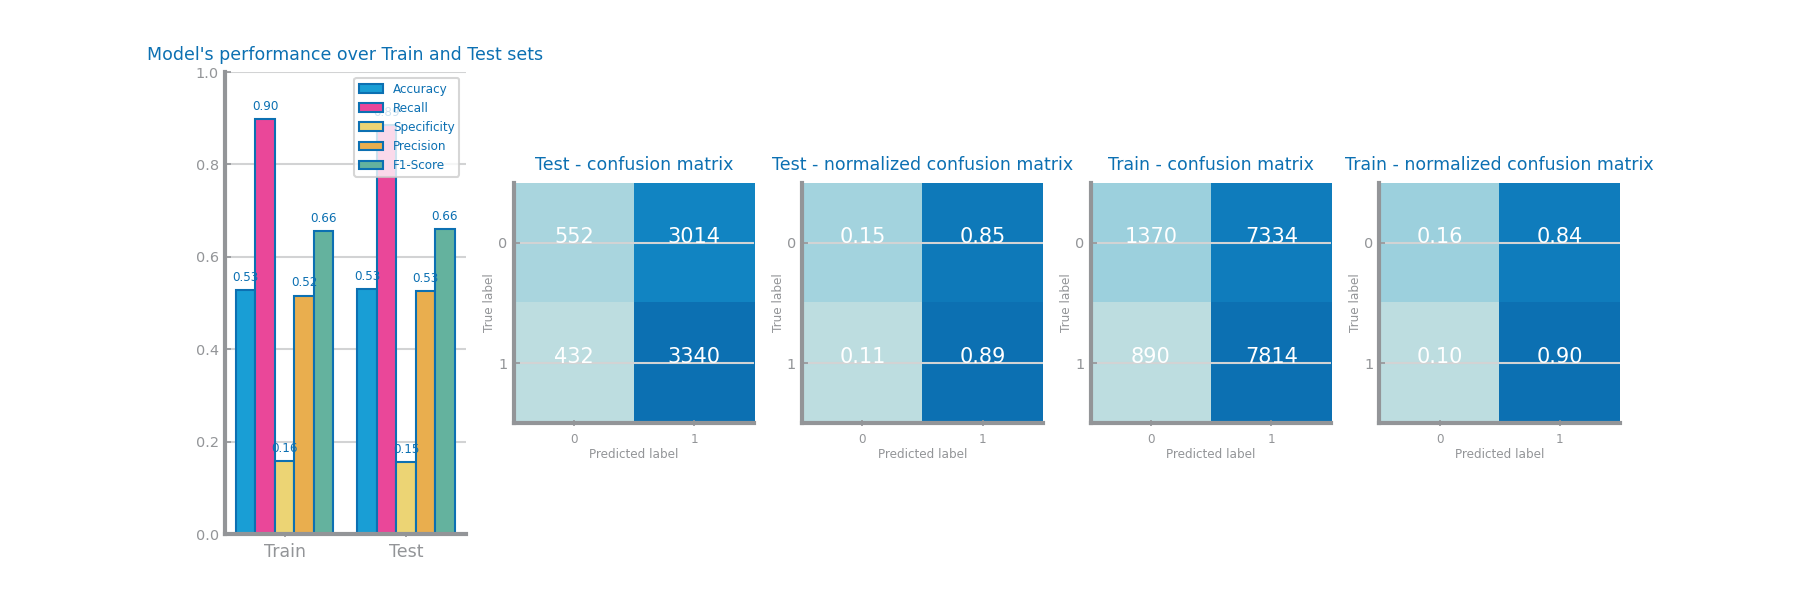
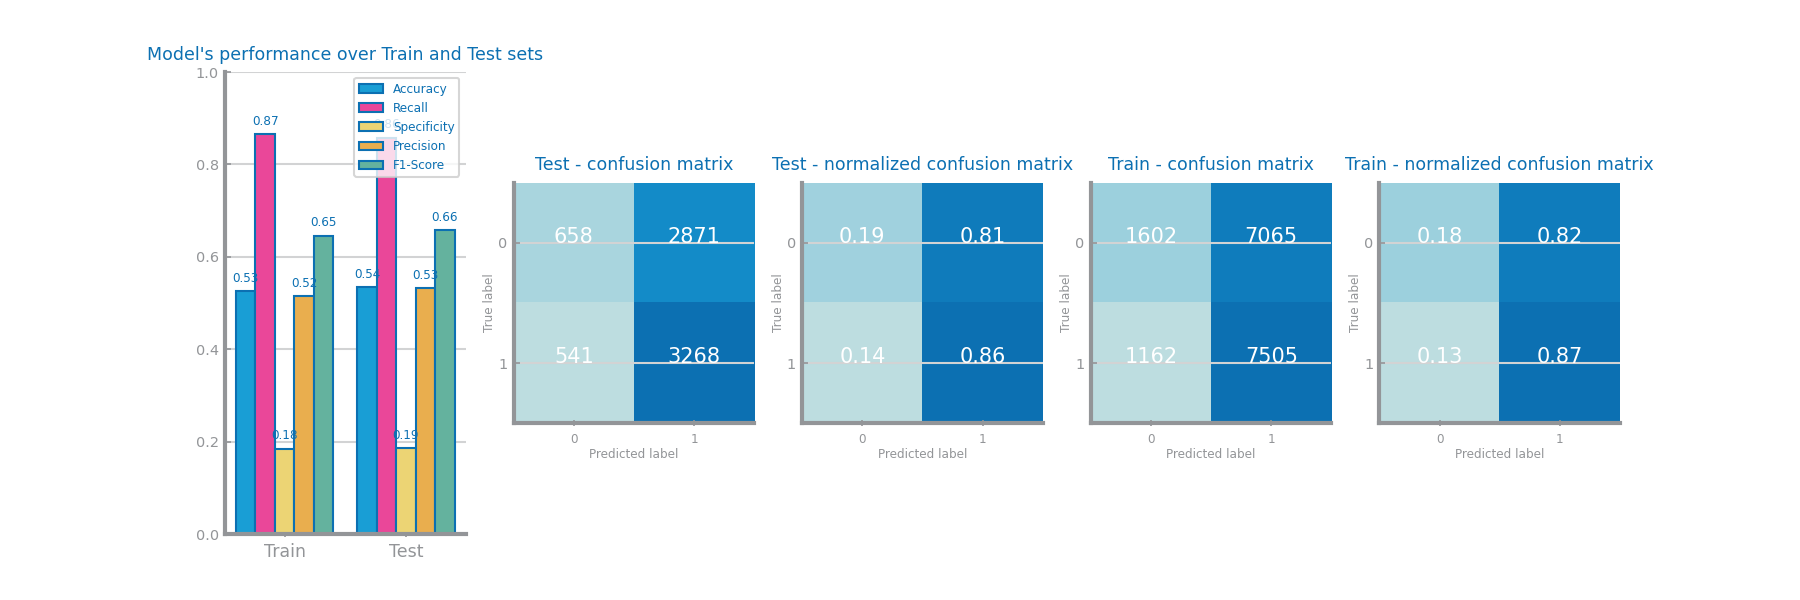
feat: Feature Selection

diff --git a/health/src/main.py b/health/src/main.py
@@ -12,6 +12,8 @@ from preparation.mvi_inputation import MVImputation
 from preparation.outliers_imputation import OutliersImputation
 from preparation.scaling import Scaling
 from preparation.balancing import Balancing
+from preparation.feature_selection import FeatureSelection
+
 from evaluation.nb_classifier import NBClassifier
 from evaluation.knn_classifier import Knn_classifier
 from evaluation.decision_tree_classifier import DTClassifier
@@ -25,6 +27,7 @@ INPUTATION_PATH = RECORDS_PATH + '/inputation'
 
 INPUT_FILE_PATH = 'health/resources/data/diabetic_data.csv'
 PREPARATION_OUT_FILE_PATH = 'health/resources/data/data_prepared.csv'
+FEATURE_SELECTION_OUT_FILE_PATH_TRAIN = 'health/resources/data/data_feature_selected.csv'
 PREPARATION_OUT_FILE_PATH_TRAIN = 'health/resources/data/data_prepared_train.csv'
 PREPARATION_OUT_FILE_PATH_TEST = 'health/resources/data/data_prepared_test.csv'
 MVI_OUT_FILE_PATH = 'health/resources/data/data_mvi_approach2.csv'
@@ -61,45 +64,51 @@ if __name__ == "__main__":
 
   # ----------------------------- 2º Phase -> Data preparation -------  ---------------------- #
 
-  # data = read_csv(INPUT_FILE_PATH, na_values='na')
+  data = read_csv(INPUT_FILE_PATH, na_values='na')
  
-  # parser = Parser(data, MISSING_VALUES_REPR)
-  # data = parser.parse_dataset(PREPARATION_OUT_FILE_PATH)
+  parser = Parser(data, MISSING_VALUES_REPR)
+  data = parser.parse_dataset(PREPARATION_OUT_FILE_PATH)
  
-  # mvi = MVImputation(data, MISSING_VALUES_REPR)
-  # data = mvi.compute_mv_imputation(INPUTATION_OUT_FILE_PATH)
+  mvi = MVImputation(data, MISSING_VALUES_REPR)
+  data = mvi.compute_mv_imputation(INPUTATION_OUT_FILE_PATH)
 
-  # outliers = OutliersImputation(data)
-  # data = outliers.compute_outliers()
+  outliers = OutliersImputation(data)
+  data = outliers.compute_outliers()
   
-  # scaling = Scaling(data)
-  # data = scaling.compute_scale()
+  scaling = Scaling(data)
+  data = scaling.compute_scale()
+
+  # Feature Selection
+  feature_Selection = FeatureSelection(data)
+  vars_2drop = feature_Selection.explore_redundat()
+  data = feature_Selection.drop_redundant(vars_2drop)
+  data.to_csv(FEATURE_SELECTION_OUT_FILE_PATH_TRAIN)
   
-  # # Removes single value columns
-  # ms = [
-  #   'acetohexamide', 'examide', 'citoglipton', 
-  # ]
-  # data = data.drop(columns=ms)
+  # Removes single value columns
+  ms = [
+    'acetohexamide', 'examide', 'citoglipton', 
+  ]
+  data = data.drop(columns=ms)
 
-  # # Splits data before evaluation
-  # X = data.drop("readmitted", axis=1)
-  # y = data["readmitted"]
-  # X_train, X_test, y_train, y_test = train_test_split(X, y, train_size=0.7)
+  # Splits data before evaluation
+  X = data.drop("readmitted", axis=1)
+  y = data["readmitted"]
+  X_train, X_test, y_train, y_test = train_test_split(X, y, train_size=0.7)
 
-  # data_train = concat([DataFrame(X_train), DataFrame(y_train)], axis=1)
+  data_train = concat([DataFrame(X_train), DataFrame(y_train)], axis=1)
 
-  # balancing = Balancing(data_train)
-  # data = balancing.compute_balancing()
+  balancing = Balancing(data_train)
+  data = balancing.compute_balancing()
 
-  # data.to_csv(PREPARATION_OUT_FILE_PATH_TRAIN)
+  data.to_csv(PREPARATION_OUT_FILE_PATH_TRAIN)
   
-  # data_test = concat([DataFrame(X_test), DataFrame(y_test)], axis=1)
-  # data_test.to_csv(PREPARATION_OUT_FILE_PATH_TEST)
+  data_test = concat([DataFrame(X_test), DataFrame(y_test)], axis=1)
+  data_test.to_csv(PREPARATION_OUT_FILE_PATH_TEST)
 
   # ----------------------------- 3º Phase -> Evaluation -------  ---------------------- #
 
-  data_train = read_csv(PREPARATION_OUT_FILE_PATH_TRAIN, na_values='na')
-  data_test = read_csv(PREPARATION_OUT_FILE_PATH_TEST, na_values='na')
+  # data_train = read_csv(PREPARATION_OUT_FILE_PATH_TRAIN, na_values='na')
+  # data_test = read_csv(PREPARATION_OUT_FILE_PATH_TEST, na_values='na')
 
   # nbClassifier = NBClassifier(data_train, data_test)
   # nbClassifier.explore_best_nb_value()
@@ -109,9 +118,9 @@ if __name__ == "__main__":
   # k, approach = knn_class.explore_best_k_value(method="large")
   # knn_class.compute_knn_best_results(k , approach)
 
-  dt_classifier = DTClassifier(data_train, data_test)
-  criteria, depth, impurity = dt_classifier.compute_best_dt()
-  dt_classifier.explore_best_tree_graph_light()
-  dt_classifier.compute_dt_best_matrix_results(depth, criteria, impurity)
-  dt_classifier.compute_dt_feature_importance()
-  dt_classifier.compute_best_dt_overfit(criteria, impurity)
+  # dt_classifier = DTClassifier(data_train, data_test)
+  # criteria, depth, impurity = dt_classifier.compute_best_dt()
+  # dt_classifier.explore_best_tree_graph_light()
+  # dt_classifier.compute_dt_best_matrix_results(depth, criteria, impurity)
+  # dt_classifier.compute_dt_feature_importance()
+  # dt_classifier.compute_best_dt_overfit(criteria, impurity)

diff --git a/climate/src/preparation/feature_selection.py b/climate/src/preparation/feature_selection.py
@@ -1,0 +1,77 @@
+import pandas as pd
+from matplotlib.pyplot import figure, title, savefig, show
+from seaborn import heatmap
+from matplotlib.pyplot import figure, savefig, show
+from ds_charts import bar_chart
+
+
+class FeatureSelection:
+
+    def __init__(self,data: pd.DataFrame) -> None:
+        self.data = data
+        self.threshold = 0.9
+    
+    def explore_redundat(self): 
+        drop, corr_mtx = self.select_redundant(self.data.corr())
+        # print(drop.keys())
+
+        if corr_mtx.empty:
+            raise ValueError('Matrix is empty.')
+
+        figure(figsize=[10, 10])
+        heatmap(corr_mtx, xticklabels=corr_mtx.columns, yticklabels=corr_mtx.columns, annot=False, cmap='Blues')
+        title('Filtered Correlation Analysis')
+        savefig(f'climate/records/preparation/filtered_correlation_analysis_{self.threshold}.png')
+
+        return drop
+
+    def select_redundant(self, corr_mtx) -> tuple[dict, pd.DataFrame]:
+        if corr_mtx.empty:
+            return {}
+
+        corr_mtx = abs(corr_mtx)
+        vars_2drop = {}
+        for el in corr_mtx.columns:
+            el_corr = (corr_mtx[el]).loc[corr_mtx[el] >= self.threshold]
+            if len(el_corr) == 1:
+                corr_mtx.drop(labels=el, axis=1, inplace=True)
+                corr_mtx.drop(labels=el, axis=0, inplace=True)
+            else:
+                vars_2drop[el] = el_corr.index
+        return vars_2drop, corr_mtx
+
+    def drop_redundant(self, vars_2drop: dict) -> pd.DataFrame:
+        sel_2drop = []
+        # print(vars_2drop.keys())
+        for key in vars_2drop.keys():
+            if key not in sel_2drop:
+                for r in vars_2drop[key]:
+                    if r != key and r not in sel_2drop:
+                        sel_2drop.append(r)
+        print('Variables to drop', sel_2drop)
+        df = self.data.copy()
+        for var in sel_2drop:
+            df.drop(labels=var, axis=1, inplace=True)
+        return df
+
+    
+    def select_low_variance(self, data: pd.DataFrame):
+        numeric_vars = ['fips', 'PRECTOT', 'PS', 'QV2M', 'T2M_MAX', 'T2M_RANGE', 'WS10M', 'WS10M_MIN', 'WS10M_RANGE', 'WS50M_MAX', 'WS50M_RANGE', 'lat', 'elevation', 'slope1', 'slope2', 'slope3', 'slope4', 'slope5', 'slope7', 'aspectN', 'aspectW', 'WAT_LAND', 'NVG_LAND', 'URB_LAND', 'GRS_LAND', 'CULTIR_LAND']
+
+        data_numeric = data[numeric_vars]
+
+        lst_variables = []
+        lst_variances = []
+        for el in data_numeric:
+            value = self.data[el].var()
+            if value <= self.threshold:
+                lst_variables.append(el)
+                lst_variances.append(value)
+
+        figure(figsize=[10, 10])
+        bar_chart(lst_variables, lst_variances, title='Variance analysis', xlabel='variables', ylabel='variance', rotation=45)
+        savefig('climate/records/preparation/filtered_variance_analysis.png')
+
+
+    
+    

diff --git a/health/src/preparation/feature_selection.py b/health/src/preparation/feature_selection.py
@@ -1,0 +1,77 @@
+import pandas as pd
+from matplotlib.pyplot import figure, title, savefig, show
+from seaborn import heatmap
+from matplotlib.pyplot import figure, savefig, show
+from ds_charts import bar_chart
+
+
+class FeatureSelection:
+
+    def __init__(self,data: pd.DataFrame) -> None:
+        self.data = data
+        self.threshold = 0.9
+    
+    def explore_redundat(self): 
+        drop, corr_mtx = self.select_redundant(self.data.corr())
+        # print(drop.keys())
+
+        if corr_mtx.empty:
+            raise ValueError('Matrix is empty.')
+
+        figure(figsize=[10, 10])
+        heatmap(corr_mtx, xticklabels=corr_mtx.columns, yticklabels=corr_mtx.columns, annot=False, cmap='Blues')
+        title('Filtered Correlation Analysis')
+        savefig(f'health/records/preparation/filtered_correlation_analysis_{self.threshold}.png')
+
+        return drop
+
+    def select_redundant(self, corr_mtx) -> tuple[dict, pd.DataFrame]:
+        if corr_mtx.empty:
+            return {}
+
+        corr_mtx = abs(corr_mtx)
+        vars_2drop = {}
+        for el in corr_mtx.columns:
+            el_corr = (corr_mtx[el]).loc[corr_mtx[el] >= self.threshold]
+            if len(el_corr) == 1:
+                corr_mtx.drop(labels=el, axis=1, inplace=True)
+                corr_mtx.drop(labels=el, axis=0, inplace=True)
+            else:
+                vars_2drop[el] = el_corr.index
+        return vars_2drop, corr_mtx
+
+    def drop_redundant(self, vars_2drop: dict) -> pd.DataFrame:
+        sel_2drop = []
+        print(vars_2drop.keys())
+        for key in vars_2drop.keys():
+            if key not in sel_2drop:
+                for r in vars_2drop[key]:
+                    if r != key and r not in sel_2drop:
+                        sel_2drop.append(r)
+        print('Variables to drop', sel_2drop)
+        df = self.data.copy()
+        for var in sel_2drop:
+            df.drop(labels=var, axis=1, inplace=True)
+        return df
+
+    
+    def select_low_variance(self, data: pd.DataFrame):
+        numeric_vars = ['time_in_hospital', 'num_lab_procedures', 'num_procedures', 'num_medications', 'number_outpatient', 'number_emergency', 'number_diagnoses', 'number_inpatient']
+
+        data_numeric = data[numeric_vars]
+
+        lst_variables = []
+        lst_variances = []
+        for el in data_numeric:
+            value = self.data[el].var()
+            if value <= self.threshold:
+                lst_variables.append(el)
+                lst_variances.append(value)
+
+        figure(figsize=[10, 10])
+        bar_chart(lst_variables, lst_variances, title='Variance analysis', xlabel='variables', ylabel='variance', rotation=True)
+        savefig('health/records/preparation/filtered_variance_analysis.png')
+
+
+    
+    

diff --git a/climate/src/main.py b/climate/src/main.py
@@ -10,6 +10,7 @@ from preparation.parsing import Parser
 from preparation.scaling import Scaling
 from preparation.outliers_imputation import OutliersImputation
 from preparation.balancing import Balancing
+from preparation.feature_selection import FeatureSelection
 
 from evaluation.knn_classifier import Knn_classifier
 from evaluation.nb_classifier import NBClassifier
@@ -20,6 +21,7 @@ register_matplotlib_converters()
 
 RECORDS_PATH = 'climate/records'
 PREPARATION_OUT_FILE_PATH = 'climate/resources/data/data_prepared.csv'
+FEATURE_SELECTION_OUT_FILE_PATH_TRAIN = 'climate/resources/data/data_feature_selected.csv'
 PREPARATION_OUT_FILE_PATH_TRAIN = 'climate/resources/data/data_prepared_train.csv'
 PREPARATION_OUT_FILE_PATH_TEST = 'climate/resources/data/data_prepared_test.csv'
 PROFILING_PATH = RECORDS_PATH + '/profiling'
@@ -42,6 +44,13 @@ if __name__ == "__main__":
   # scaling = Scaling(data)
   # data = scaling.compute_scale()
 
+  # # Feature Selection
+  # feature_Selection = FeatureSelection(data)
+  # vars_2drop = feature_Selection.explore_redundat()
+  # data = feature_Selection.drop_redundant(vars_2drop)
+  # data.to_csv(FEATURE_SELECTION_OUT_FILE_PATH_TRAIN)
+  # feature_Selection.select_low_variance(data)
+  
   # # Remove single values columns
   # ms = ['NVG_LAND', 'SQ5', 'SQ6']
   # data = data.drop(columns=ms)
@@ -65,9 +74,9 @@ if __name__ == "__main__":
   data_train = read_csv(PREPARATION_OUT_FILE_PATH_TRAIN, na_values='na')
   data_test = read_csv(PREPARATION_OUT_FILE_PATH_TEST, na_values='na')
 
-  # nbClassifier = NBClassifier(data_train, data_test)
+  nbClassifier = NBClassifier(data_train, data_test)
   # nbClassifier.explore_best_nb_value()
-  # nbClassifier.compute_nb_best_results()
+  nbClassifier.compute_nb_best_results()
 
   # knn_class = Knn_classifier(data_train, data_test)
   # k, approach = knn_class.explore_best_k_value(method="large")
@@ -77,9 +86,9 @@ if __name__ == "__main__":
   # rtClassifier.explore_best_rt()
   # rtClassifier.compute_best_rt_results(25, 0.7, 200)
 
-  dt_classifier = DTClassifier(data_train, data_test)
-  criteria, depth, impurity = dt_classifier.compute_best_dt()
-  dt_classifier.explore_best_tree_graph_light()
-  dt_classifier.compute_dt_best_matrix_results(depth, criteria, impurity)
-  dt_classifier.compute_dt_feature_importance()
-  dt_classifier.compute_best_dt_overfit(criteria, impurity)
+  # dt_classifier = DTClassifier(data_train, data_test)
+  # criteria, depth, impurity = dt_classifier.compute_best_dt()
+  # dt_classifier.explore_best_tree_graph_light()
+  # dt_classifier.compute_dt_best_matrix_results(depth, criteria, impurity)
+  # dt_classifier.compute_dt_feature_importance()
+  # dt_classifier.compute_best_dt_overfit(criteria, impurity)

diff --git a/climate/src/preparation/balancing.py b/climate/src/preparation/balancing.py
@@ -14,7 +14,7 @@ class Balancing:
     return self.data
 
   def get_symbolic_index_array(self):
-    headers = ['fips', 'SQ1', 'SQ2', 'SQ3', 'SQ4', 'SQ7']
+    headers = ['fips', 'SQ1', 'SQ3', 'SQ4']
     result = []
     for h in headers:
       result.append(self.data.columns.get_loc(h))
